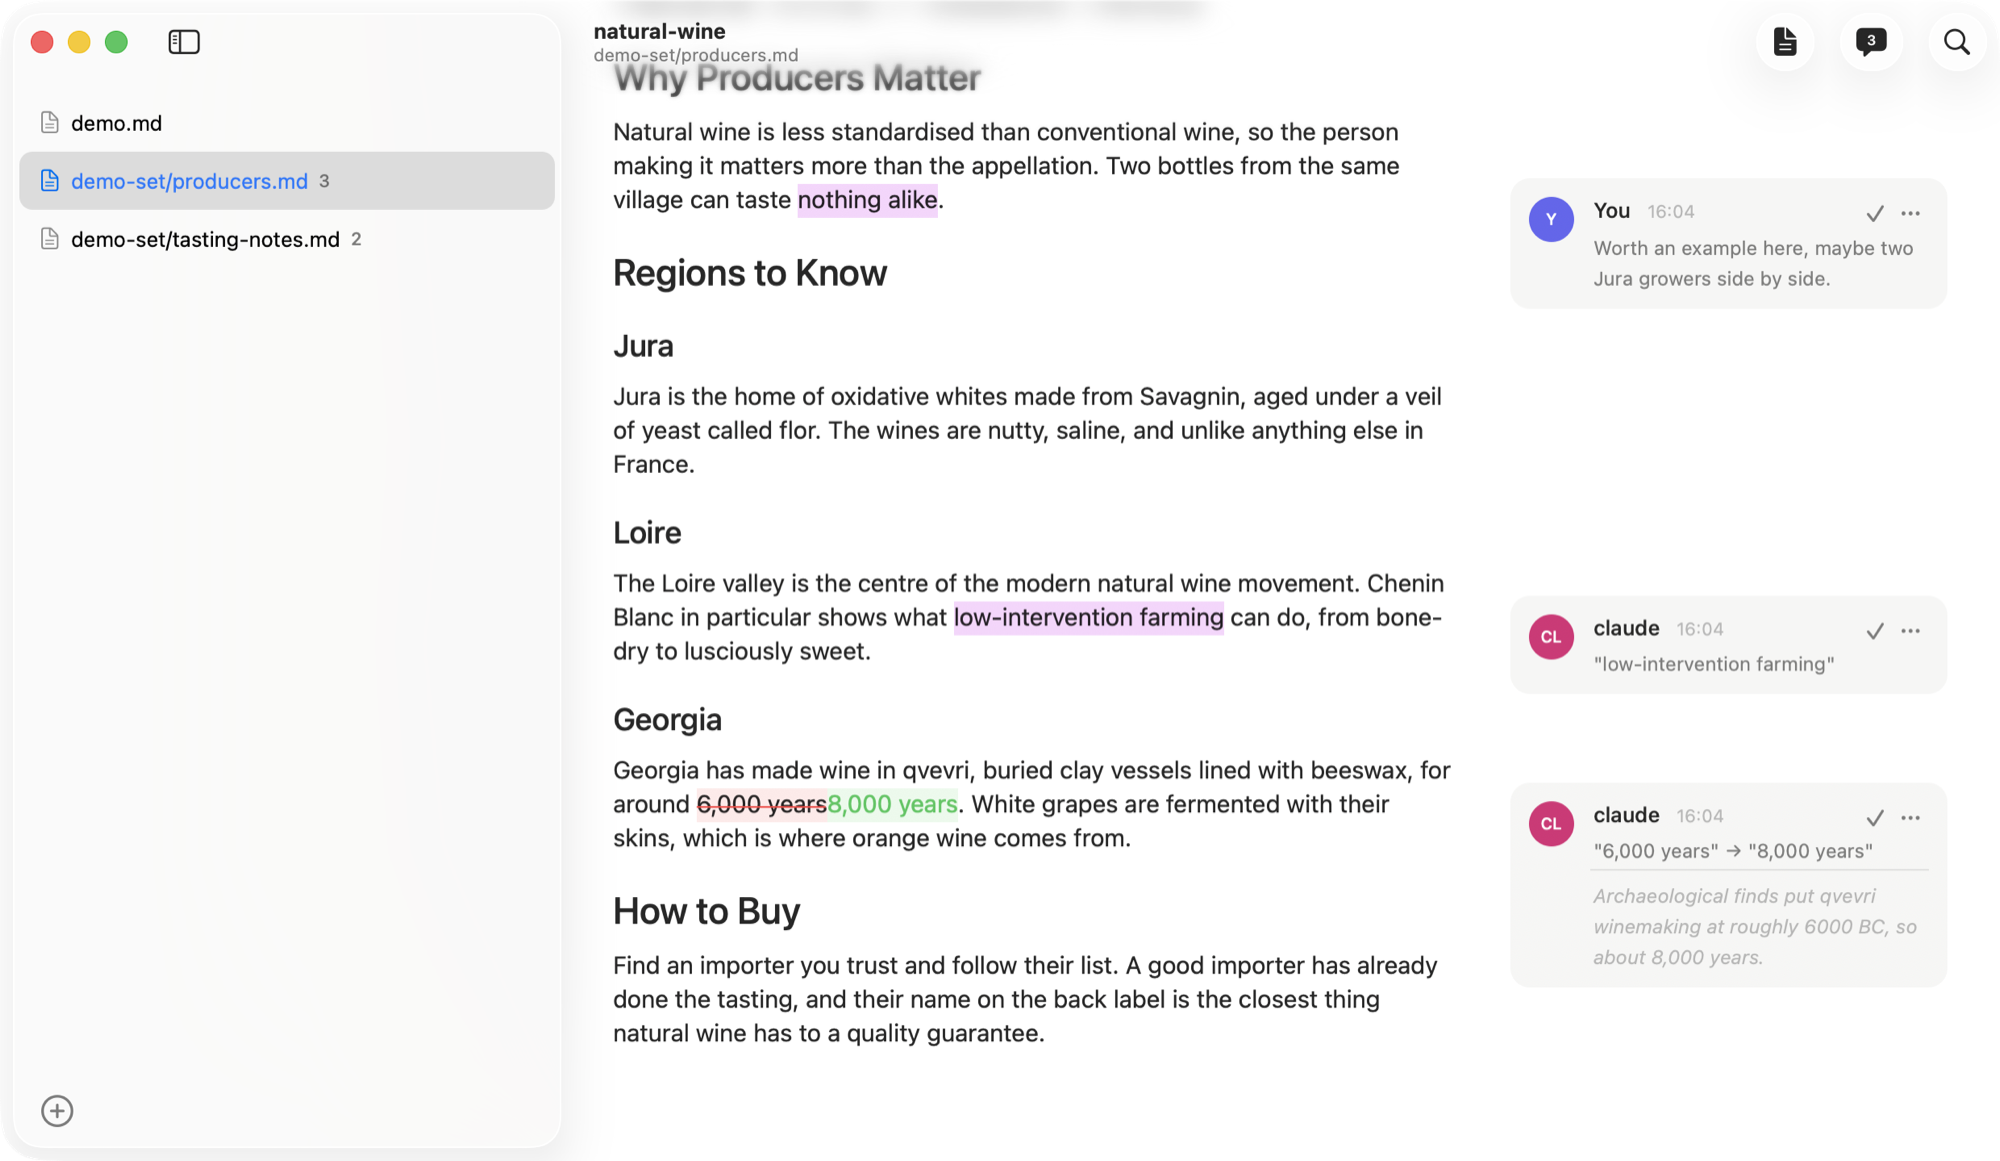
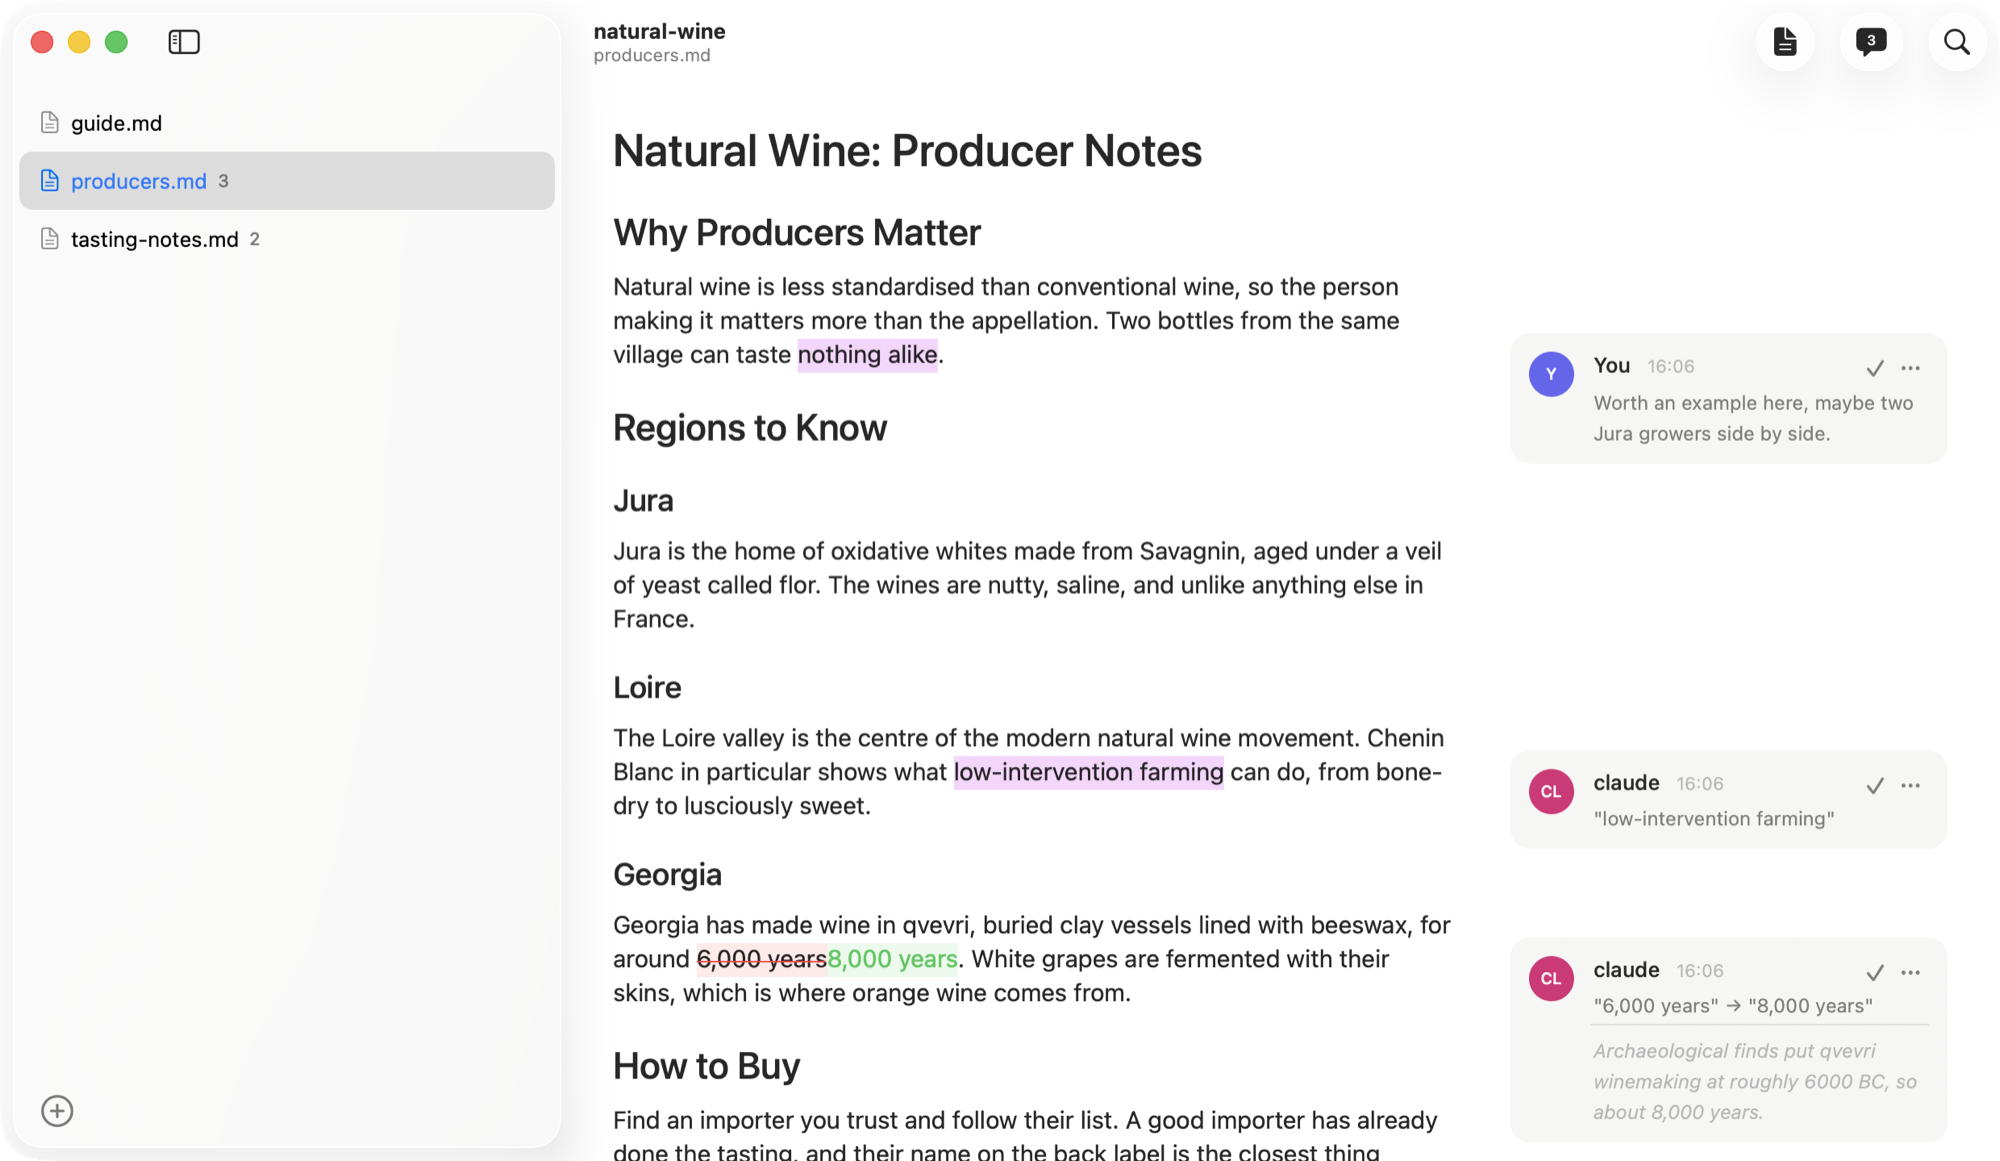
Rework the README set: plain file names, the screenshot from the top
demo.md and demo-set/ become docs/natural-wine/{guide,producers,tasting-notes}.md
with their setup.sh, so the sidebar shows plain file names and nothing says
sample or demo. The screenshot script copies them flat into its throwaway
repo, and the picture is taken at the top of the file.

diff --git a/macos/Sources/Folio/Screenshot.swift b/macos/Sources/Folio/Screenshot.swift
@@ -41,6 +41,8 @@ enum Screenshot {
         // Active, so the sidebar highlights in the system accent rather than inactive grey.
         NSApp.activate(ignoringOtherApps: true)
         win.window?.makeKeyAndOrderFront(nil)
+        // The top of the file, where the picture starts: after the pane has settled, which scrolls.
+        win.scrollHost.scroll(toFraction: 0)
         try? await Task.sleep(nanoseconds: 1_000_000_000)
         if let window = win.window { WindowPicture.write(window, to: path) }
     }

diff --git a/README.md b/README.md
@@ -8,7 +8,7 @@
 
 Folio is a local markdown editor built for review. An agent reads a document and leaves its feedback as annotations: replacements, deletions, insertions, highlights and comments. You see them beside the text as they arrive, reply to them, and accept or reject each one. Accepting patches the markdown; nothing else ever changes it.
 
-![The macOS app showing the natural-wine sample set: a sidebar of three files with pending-annotation counts, and an agent's replacement, a highlight and a comment beside the text](docs/screenshot.png)
+![The macOS app showing the natural-wine set: a sidebar of three files with pending-annotation counts, and an agent's replacement, a highlight and a comment beside the text](docs/screenshot.png)
 
 ## Ways to use it
 

diff --git a/macos/README.md b/macos/README.md
@@ -99,7 +99,7 @@ cards, the card menu, the Comment button and the comment form.
 
 ## README screenshot
 
-`docs/screenshot.png` shows the `natural-wine` sample set (`demo-set/setup.sh` registers it).
+`docs/screenshot.png` shows the `natural-wine` set (`docs/natural-wine/setup.sh` registers it).
 `scripts/readme-screenshot.sh` retakes it from a clean copy of the set. The app photographs
 itself: `Folio --set <name> --screenshot <png> [--appearance light|dark]`.
 The README uses a plain markdown image, not a light/dark `<picture>`: raw HTML makes Folio's own
